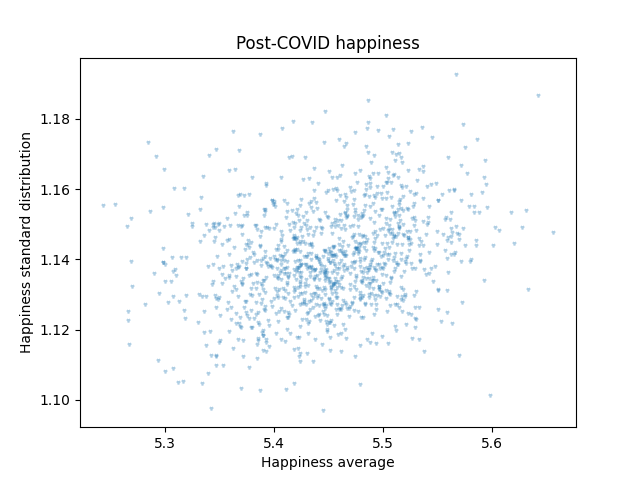
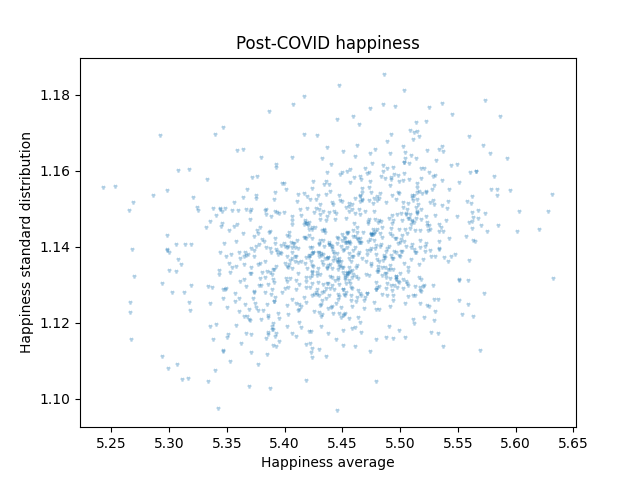
Change range of post-COVID group

diff --git a/src/UNGD_samp_stats.py b/src/UNGD_samp_stats.py
@@ -17,7 +17,7 @@ src_folder = Path(__file__).resolve().parent
 ROOT = src_folder.parent
 
 df = pd.read_csv(UNGD_happiness)
-df = df[(df["year"] >= 2015) & (df["year"] <= 2025)]
+df = df[(df["year"] >= 2015) & (df["year"] <= 2024)]
 df_pre = pd.read_csv(UNGD_pre_covid)
 df_post = pd.read_csv(UNGD_post_covid)
 
@@ -42,7 +42,7 @@ def summarize_happiness(df, label):
 
 # calculate stats for pre and post covid dataframes
 pre_stats = summarize_happiness(df_pre, "Pre-COVID (2015–2019)")
-post_stats = summarize_happiness(df_post, "Post-COVID (2020–2025)")
+post_stats = summarize_happiness(df_post, "Post-COVID (2020–2024)")
 
 results_df = pd.DataFrame([pre_stats, post_stats])
 

diff --git a/src/UNGD_cleaning.py b/src/UNGD_cleaning.py
@@ -104,7 +104,7 @@ UNGD_happiness = Path(__file__).parent.parent / "data" / "processed" / "UNGD_hap
 
 df = pd.read_csv(UNGD_happiness)
 pre_covid = df[(df["year"] >= 2015) & (df["year"] <= 2019)]
-post_covid = df[(df["year"] >= 2020) & (df["year"] <= 2025)]
+post_covid = df[(df["year"] >= 2020) & (df["year"] <= 2024)]
  
 pre_covid.to_csv("data/processed/UNGD_pre_covid.csv", index=False)
 post_covid.to_csv("data/processed/UNGD_post_covid.csv", index=False)
